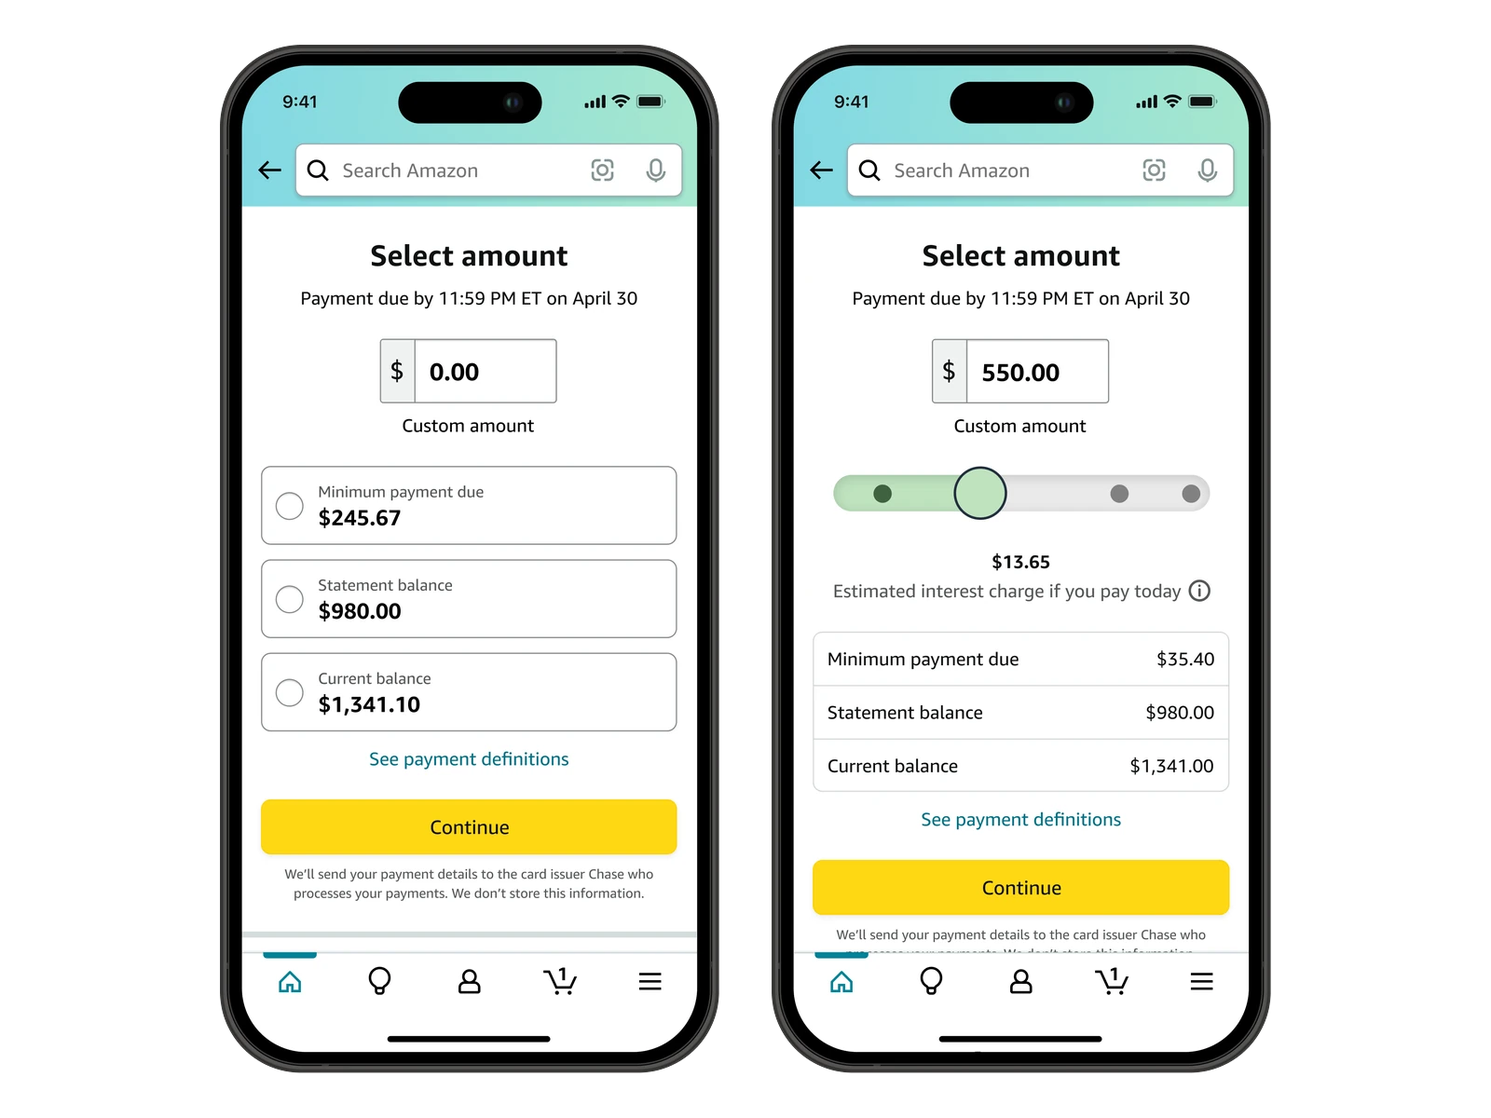
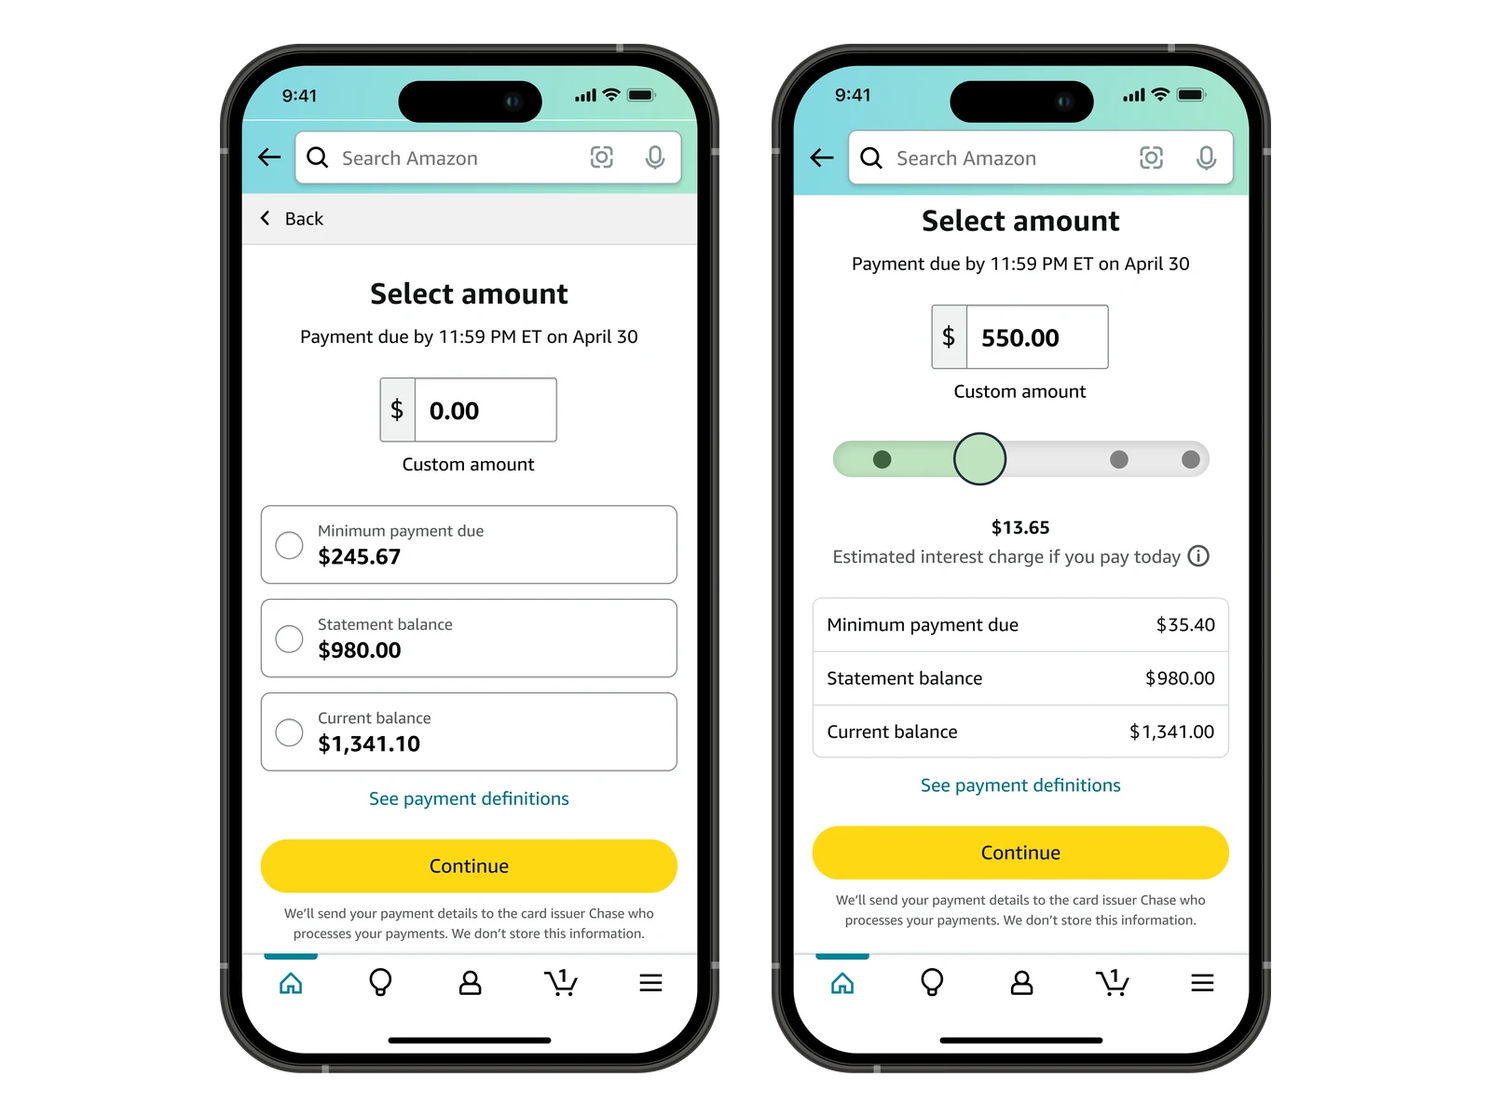
Take the year off all five project cards, rebuild the Pay Bill thumbnail
Removes .project__year from the five home page cards and deletes its rule,
at the user's direction. This reverses iteration 62 and overrules the
recommendation I gave in the preceding turn. The values and the reasoning
behind each one are archived in iteration 65's README, and every case study
still carries its own dates in the Timeline cell of its hero rail.

Nothing else in .project__meta used margin-left: auto, so the index and the
tag do not move. One gain: .project__tag had wrapped "Credit card servicing"
to two lines at 390 since iteration 36 because the year was taking the width;
the row is a single line there again, 31px against 43.

Rebuilds assets/img/pay-bill/home-card.webp from the Figma frames the user
supplied, node 2445:43499 exported as its two phone children. The exports
arrive opaque on the frame's own grey, so the corners are keyed back out per
phone rather than with iteration 14's circle (this bezel is a squircle) or
iteration 60's convex fill (it would bridge the gap between the two phones).
Geometry is the outgoing asset's own so the thumbnail keeps its size and
place. Alt text rewritten for the new screens.

Verified at DPR 2 from 1512 to 320: no overflow, resolution ratio 1.10 at its
worst, audit over 8 pages and 5 viewports clean.

diff --git a/index.html b/index.html
@@ -145,14 +145,13 @@
               <p class="project__meta">
                 <span class="project__index num">01</span>
                 <span class="project__tag label">Credit card servicing</span>
-                <!-- A RANGE, not the start year. Every one of these used to carry the
-                     year the work began, which is the least flattering year available
-                     and on two cards was not even a year the page supports. The range
-                     is read off that case study's own Timeline cell: pay-bill.html
-                     says "March 2022, launched October 2023". It also does a second
-                     job a single year cannot, which is to show how long the programme
-                     ran, and duration is scope. -->
-                <span class="project__year label num">2022&#8211;23</span>
+                <!-- No year on any of the five cards, removed at the user's direction
+                     in iteration 65. Each one used to carry a range read off its own
+                     case study's Timeline cell, and that iteration's README holds all
+                     five so they can be put back in one paste. Every case study page
+                     still carries its own dates in the Timeline cell of its hero rail,
+                     so nothing became undateable; what went is the date on the
+                     thumbnail, which was the first thing a skimmer read. -->
               </p>
               <h3 class="display-2 project__title">
                 <a class="project__link" href="work/pay-bill.html">Amazon Visa Pay Bill</a>
@@ -170,9 +169,14 @@
             </div>
             <figure class="project__media">
               <!-- 4:3 composite, transparent behind the two phones, so the tinted
-                   .project__media panel shows through instead of a baked-in colour. -->
+                   .project__media panel shows through instead of a baked-in colour.
+                   Rebuilt in iteration 65 from the Figma frames the user supplied, and
+                   iterations/65-years-off-cards-new-paybill-frames/proc.py is the
+                   encoder of record: the exports arrive opaque on the frame's own grey,
+                   so the corners have to be keyed back out, and it holds the geometry
+                   this asset shares with the other home page thumbnails. -->
               <img src="assets/img/pay-bill/home-card.webp"
-                   alt="Payment amount selection screen beside the interest slider concept"
+                   alt="Two phone screens. The Amazon Visa select amount screen, with a custom amount field and radio buttons for the minimum payment due, the statement balance and the current balance, next to the interest slider concept, where a $550.00 payment shows an estimated interest charge of $13.65 if you pay today."
                    width="1600" height="1200" loading="lazy" decoding="async">
             </figure>
           </div>
@@ -185,8 +189,6 @@
               <p class="project__meta">
                 <span class="project__index num">02</span>
                 <span class="project__tag label">Credit card servicing</span>
-                <!-- card-dashboard.html: "January 2025, launched July 2026". -->
-                <span class="project__year label num">2025&#8211;26</span>
               </p>
               <h3 class="display-2 project__title">
                 <a class="project__link" href="work/card-dashboard.html">Amazon Visa Card Dashboard</a>
@@ -217,7 +219,6 @@
               <p class="project__meta">
                 <span class="project__index num">03</span>
                 <span class="project__tag label">AI Builder</span>
-                <span class="project__year label num">2026</span>
               </p>
               <h3 class="display-2 project__title">
                 <a class="project__link" href="work/basket-building.html">Improving Basket Building</a>
@@ -249,15 +250,6 @@
               <p class="project__meta">
                 <span class="project__index num">04</span>
                 <span class="project__tag label">Credit card servicing</span>
-                <!-- 2022 was asked for explicitly (iteration 58) and is kept as the
-                     start, so this is the one card whose first year is not read off
-                     its page: transactions.html's Timeline is "October 2023, September
-                     2024, September 2025", which are three releases rather than a
-                     kickoff, and design work starting the year before the first of
-                     them is consistent with that. The end year comes from the page.
-                     Without the range, 2022 alone sat next to a page whose earliest
-                     date is 2023 and read as a contradiction. -->
-                <span class="project__year label num">2022&#8211;25</span>
               </p>
               <h3 class="display-2 project__title">
                 <a class="project__link" href="work/transactions.html">Amazon Visa Transactions</a>
@@ -287,14 +279,6 @@
               <p class="project__meta">
                 <span class="project__index num">05</span>
                 <span class="project__tag label">Banking, at g2o</span>
-                <!-- 2019, kept on the user's instruction after a turn at 2018. A
-                     single year rather than a range, and the only card whose year is
-                     not read off its page: keybank.html says March 2018 twice and its
-                     one dated quote is April 2018, none of which is wrong, since a
-                     six month UX delivery from March 2018 hands off to a build that
-                     ran into 2019 and the page does not cover the build. Do not
-                     "correct" this to 2018 again. -->
-                <span class="project__year label num">2019</span>
               </p>
               <h3 class="display-2 project__title">
                 <a class="project__link" href="work/keybank.html">KeyBank account opening</a>

diff --git a/assets/css/components.css b/assets/css/components.css
@@ -519,11 +519,18 @@ a:hover .arrow, .btn:hover .arrow { transform: translateX(5px); }
   color: var(--text);
 }
 
-/* nowrap because these are now ranges, "2022–23", and an en dash is a break
-   opportunity: at 390 the chip broke after the dash and read as two lines, 2022–
-   over 23. The row has no flex-wrap, so the cost is paid by .project__tag, which
-   already wrapped to two lines at that width. */
-.project__year { margin-left: auto; white-space: nowrap; }
+/* .project__year is gone, rule and all. It was `margin-left: auto; white-space:
+   nowrap`, the auto pushing the year to the far end of the row and the nowrap
+   keeping an en dash range like "2022–23" off two lines at 390. Both are in
+   iterations/65-years-off-cards-new-paybill-frames/before/components.css with
+   the note that derived them, and the five year spans are in that iteration's
+   README. Nothing else in .project__meta used margin-left: auto, so the index
+   and the tag sit where they always did; the row simply ends after the tag now.
+
+   If a year ever comes back, it does not come back here. Put it in the summary
+   sentence, where the site's standing rule already puts numbers, rather than as
+   a third chip: the chip row is the loudest line on the card and a date is the
+   least interesting thing on it. */
 
 .project__title { margin-bottom: var(--s-4); max-width: 20ch; }
 

diff --git a/DESIGN-SYSTEM.md b/DESIGN-SYSTEM.md
@@ -81,6 +81,7 @@ iterations/24-card-dashboard-goals-trim/  the second paragraph and the whole fou
 iterations/25-card-dashboard-team-role/  Card Dashboard section 03 replaced with the user's own team roster and a prose responsibilities sentence, retiring the UX working group paragraph and its five item .case-list. removed.html has both plus the old hero .case-meta Team value, which had to change in the same edit or the page stated the team two ways. Records why the rail keeps the short form, why 4&nbsp;Engineers carries a non-breaking space, and the two claims that came out of the copy and where each still lives on the page.
 iterations/26-card-dashboard-servicing-linked-only/  a one sentence factual correction in Card Dashboard section 04: servicing kept the top of the page for linked customers only, because on-Amazon servicing is gated on account linking, not "in both cases". No markup change. Also flags the framework figcaption's "hold fixed placement in both", which makes a similar claim about the header, quick action pills and balance and was left alone because it describes what is drawn on that board.
 iterations/27-card-dashboard-chase-linking/  Card Dashboard section 04 second paragraph: the unserved segment would not link their Chase account, not their "bank account", and they managed the card at Chase's app/website. Adds the gating rule that linking the Amazon and Chase accounts was required for on-Amazon servicing, which is what makes "most of the page was dead weight" follow rather than assert. Records why "bank account" was wrong here and right on Pay Bill, where it survives nine times.
+iterations/65-years-off-cards-new-paybill-frames/  **the year is off all five home page project cards**, and the Pay Bill thumbnail rebuilt from new Figma frames, both asked for in one line: *"Remove years from project thumbnails. For Pay Bill thumbnail image specifically, use this updated phone frames: [node-id=2445-43499]"*. This **reverses iteration 62**, which had just moved the same five values from start years to ranges, and it overrules a recommendation I gave in the turn immediately before: I had argued for keeping them, on the grounds that the home page is ordered by strength rather than by date, so a reader with no years assumes reverse chronological and reads KeyBank as the most recent work. That argument is not wrong and it is not the point; the user decided, and the five spans and the four comments that defended them are gone. Where the dates still live: **every case study page carries its own in the Timeline cell of its hero rail**, so nothing became undateable, and iteration 62's entry above holds all five values with the reasoning that derived them if they are ever wanted back. `.project__year` was deleted rule and all, `margin-left: auto; white-space: nowrap`; nothing else in `.project__meta` used `margin-left: auto`, so the index and the tag sit where they always did and the row simply ends after the tag. **If a year ever comes back it does not come back as a third chip**, it goes in the summary sentence where the site's standing rule already puts numbers. One unlooked for gain: the row is a single line at 390 again. `.project__tag` had wrapped "Credit card servicing" to two lines there ever since iteration 36, because the row has no `flex-wrap` and the year was taking the width; the first wrap is now at 360 and the row is 31px at 390 against 43 before. **The Pay Bill thumbnail** is `assets/img/pay-bill/home-card.webp` rebuilt from node `2445:43499` of `H3gOVBp2rmrTas26UAY195`, exported as its two phone children `2445:43500` and `2445:45969` at scale 4, and this iteration's `proc.py` is the encoder of record for an asset that had none before (iterations 08 through 11 do not cover it). The exports arrive **fully opaque on the frame's own `#F5F5F5`**, so the corners have to be keyed back out or the tinted `.project__media` panel shows four grey notches; iteration 14's punched in circle is wrong because the bezel corner is a squircle (a 252px circle would put a 230px run on row 1 and the export puts 242) and iteration 60's row wise convex fill is wrong because it would bridge the 56px gap, so the two phones are keyed **separately** with a plain run inward from each edge while the pixel is `#F5F5F5` plus or minus 3. That run exists on exactly 505 of 3487 rows, 252 at the top and 253 at the bottom, and nowhere else, which is what makes it safe: the bottom corner bands hold 22,657 pure white pixels of screen content that any lightness threshold would have eaten. Geometry is the outgoing asset's own, measured off it before replacement so the thumbnail keeps its size and place: 1600 x 1200, phones 536 wide, 56px gap, 236px side pad. The one departure is vertical, 1105 tall at 47px top pad and 48 bottom rather than 1104 at 48 and 48, because these frames are 423 x 871.517 and forcing 1104 would have squashed them by a quarter of a CSS pixel's worth of aspect. The alt text was rewritten, since the old one was nine words for two screens that have changed. Verified at DPR 2 across 1512, 1280, 1024, 860, 744, 430, 390, 360 and 320: no document overflow at any width, the thumbnail's resolution ratio is 1.10 at its worst (860) and never below 1, and `/tmp/audit57.py` over 8 pages and 5 viewports is **ALL CLEAN**. Two defects in the supplied frames, both Figma side and not fixable here: the **minimum payment due disagrees between the two phones**, $245.67 on the radio screen against $35.40 on the slider screen, and the current balance is $1,341.10 on one and $1,341.00 on the other.
 iterations/64-about-portrait-photo/  the about page hero's portrait replaced with a real photograph, asked for as *"For about me page, can you use my hi-res LinkedIn photo?"* and then *"use this photo"* with one attached. **The LinkedIn photo could not be reached by any route**: no `assets/img/about/` existed, the saved profile PDF is text only and a byte scan of all 72,359 bytes found no JPEG stream and no `/Subtype /Image`, this machine has no `pdfimages`, `pdftoppm`, `mutool`, `qpdf` or `gs` and no `fitz`, and a fetch of the public profile returned only the banner. So the user supplied a photograph from the Photos library instead. **The paste handed over a derivative, not the original**, and finding the full resolution version is half the iteration: the pasted file is 768 x 1024, `derivatives/masters/` holds only 360 x 480, `originals/` does not hold the UUID at all, and the best available is `renders/0/..._1_201_a.heic` at **3300 x 4397**. PIL here cannot decode HEIC, so it was transcoded with macOS `sips -s format png` and the transcode is kept in `source/` so `proc.py` runs without the library. **The crop is the decision, not the resize.** As shot it is a full figure at 3:4, head to sneakers, at Rockefeller Center, and the slot renders at most 416 CSS px wide, which puts the **face at 60px tall**. Three candidates were rendered at exactly 416 x 520 and looked at, which is the only way to judge this: full figure 60px, **head to mid thigh 97px, chosen**, head to hands 118px. Face height at a fixed render width depends only on how much of the frame the face occupies, so **cropping vertically alone buys nothing** and the crop has to come in from the sides too; it is centred on his body at x=1720 rather than on the frame, because he stands right of centre. It costs the legs, the sneakers and the gilded Prometheus statue, which sits at x 0 to 680 and cannot survive any crop tight enough to fix the face, and it keeps the plaza's flags, the hedges, the brass railing and the whole shirt print. The tightest candidate was rejected because at 118px the face is barely better than 97 and the shirt print, which is most of the photograph's character, gets cut in half. Output is 1000 x 1250 WebP at quality 86, 153 KB; **none of iteration 14's or 60's corner work applies**, this being a rectangular photograph whose radius is CSS. **The cap moved from 20rem to 26rem and the ratio did not**, which is the re-derivation the old note demanded rather than a deletion of it: the cap's job is no longer sharpness but stopping a 4:5 photograph from out-growing the headline, 416px sits within 24px of the 392px track at 1512 so the track governs where it matters, and widening the ratio would push the track past the cap and restore the dead sand the ratio exists to prevent. **The old asset was the soft one all along**: `headshot.jpg` measured **0.81 at every viewport from 390 to 3840**, 318 CSS px rendered needing 636 against 512 available, and the note's "renders at 1.6x" had simply left DPR out. The photograph measures 1.21 to 1.59, so it is the first image this slot has held that is not upscaled. Alt text rewritten, the old one having described a gray hoodie and a cream wall. Verified across nine viewports from 360 to 3840 at DPR 2: the hero grid at 1512 is 669px tall against a 489px portrait, so the text column still sets the row height, and at 2560 the portrait leads by 17px. Audit ALL CLEAN. Not changed: **`index.html` still uses `headshot.jpg` for the 48px round bulb in the hero eyebrow**, which is what a tight square face crop is for, so that asset stays live; a bulb derived from this photograph would make the two pages agree on which photograph of him the site uses, and that is worth doing, but it is a change to the home page and this request was about the about page.
 iterations/63-keybank-year-and-legacy-screens/  KeyBank's home page card back to **2019**, and the **two legacy screens moved out of section 05 Experience into section 01 Background**, asked for together: *"Make Keybank's year 2019 and then the two top images in the experience section should go in the background"*. The year reverts the one row of iteration 62 that was not read off its own page: `keybank.html` says March 2018 twice and its one dated quote is April 2018, but **a six month UX delivery from March 2018 hands off to a build the page does not cover**, and the person who was there knows which year the project is filed under, so the page not mentioning 2019 is a gap in the page rather than evidence against the card. The span's comment now says so and tells the next reader not to correct it again, because the mismatch will keep looking like a defect to anyone who only reads the repo. **The two screens were misfiled and their own captions proved it**: "This is the 55 minutes" points at the first sentence of the Background prose and "This is the crash in the quote above" points at the Background pull quote, both about 2,000px further up the page, so the evidence for the problem sat inside the section showing the solution and a reader met the old system only after reading the whole new flow. Background now reads as claim, testimony, evidence; section 05 is the designed flow only, in flow order, ten screens opening on Branch information. Neither caption was edited, "The same legacy system" in the second alt still refers to the figure directly above it, and section 05's "the way the old system did" still reads because the old system has been shown by then. Markup is a plain `<div class="shots">` in `.case-section__body`, so the one-up grid, `--shots-gap` and the `--s-6` top margin all come for free with **no new CSS**; deliberately **not** `.shots-group`, which widens the paragraph above to `--measure-case-wide` and raises its size, right for a lead-in and wrong for body copy. Both sections sit in the same `.container.case-section__grid`, so the images render at exactly the width they did before, which is what makes this a move and not a resize. Verified at 1512 and 390, DPR 2: two `.shot` figures in `#background` and ten in 05, no broken images, no overflow, one h1, no console errors, audit ALL CLEAN. Notes a pre-existing defect this did not cause and does not fix: **every one of the twelve KeyBank desktop screens measures 0.96 natural-to-rendered-times-DPR at 1512**, 1600px sources against a rendered 833 x 2, which wants a re-export rather than anything in this change.
 iterations/62-project-card-years/  the five home page project cards' years changed from START years to RANGES read off each case study's own Timeline cell, prompted by *"The year in the project thumbnail - is it a problem? ... there have been comments around it being a little old. What does data or the internet say about that?"*. **The research half is answered by saying there is no answer**: no web search tool in this session, `nngroup.com/articles/ux-portfolio/` is a 404 and its site search returns nav and footer only, and no credible public dataset measures how a screener reads a date on a portfolio card. The six-second figures that circulate are **resume** eye-tracking, and stretching them here would be inventing a finding. What is defensible without a citation: screeners read for relevance, scope and recent comparable work, an 18 to 24 month old enterprise fintech flagship is unremarkable at senior level, and what reads badly is a portfolio with nothing recent, which is not this one. **The real defect was in the repo, not in the perception.** The cards carried start years, which is the least flattering number available for anything that ran long, and two of the five read as contradictions of the page they link to: Transactions said 2022 against a Timeline of "October 2023, September 2024, September 2025", and KeyBank said 2019 when `keybank.html` says March 2018 twice and carries an April 2018 quote. Now: Pay Bill **2022-23** (to the October 2023 launch), Card Dashboard **2025-26** (to the July 2026 launch), Basket Building **2026** unchanged, Transactions **2022-25**, KeyBank **2018** (reverted to 2019 the same day, see iteration 63). A range also does a job a single year cannot, which is to show how long the programme ran, and duration is scope: Pay Bill now reads as 18 months rather than as a 2022 project. **KeyBank got one year older and that is the honest cost** of the card agreeing with its own page, the same defect as Transactions' 2022 pointing the other way; fixing one and leaving the other would have been picking the flattering half. **Transactions is the one card whose first year is not read off its page, deliberately**: 2022 was asked for explicitly in iteration 58, replacing a 2024 that had shipped, so that value has already been corrected once by the person who knows the kickoff date; the Timeline's three dates are releases rather than a kickoff, so a 2022 start is consistent with them where 2022 *alone* next to a page whose earliest date is 2023 was not. If 2022 was the date of the screens in the thumbnail instead, it becomes 2023-25 and nothing else moves. `.project__year` gained **`white-space: nowrap`**, because an en dash is a break opportunity and at 390 the chip broke after it and read as two lines, `2022-` over `23`; the row has no `flex-wrap`, so the cost lands on `.project__tag`, which already wrapped to two lines at that width and takes a third at 320. Verified at DPR 2 across 1512, 1280, 1024, 860, 744, 430, 390 and 320: the chip is one line at every width, 14px tall against 29 before the `nowrap`, the gap to the tag never falls below `--s-3`, nothing clips, no document overflow. Not fixed: the home page is still ordered by strength rather than chronology, 2022-23, 2025-26, 2026, 2022-25, 2018, which I still think is right for a trailer now that the dates are legible.
